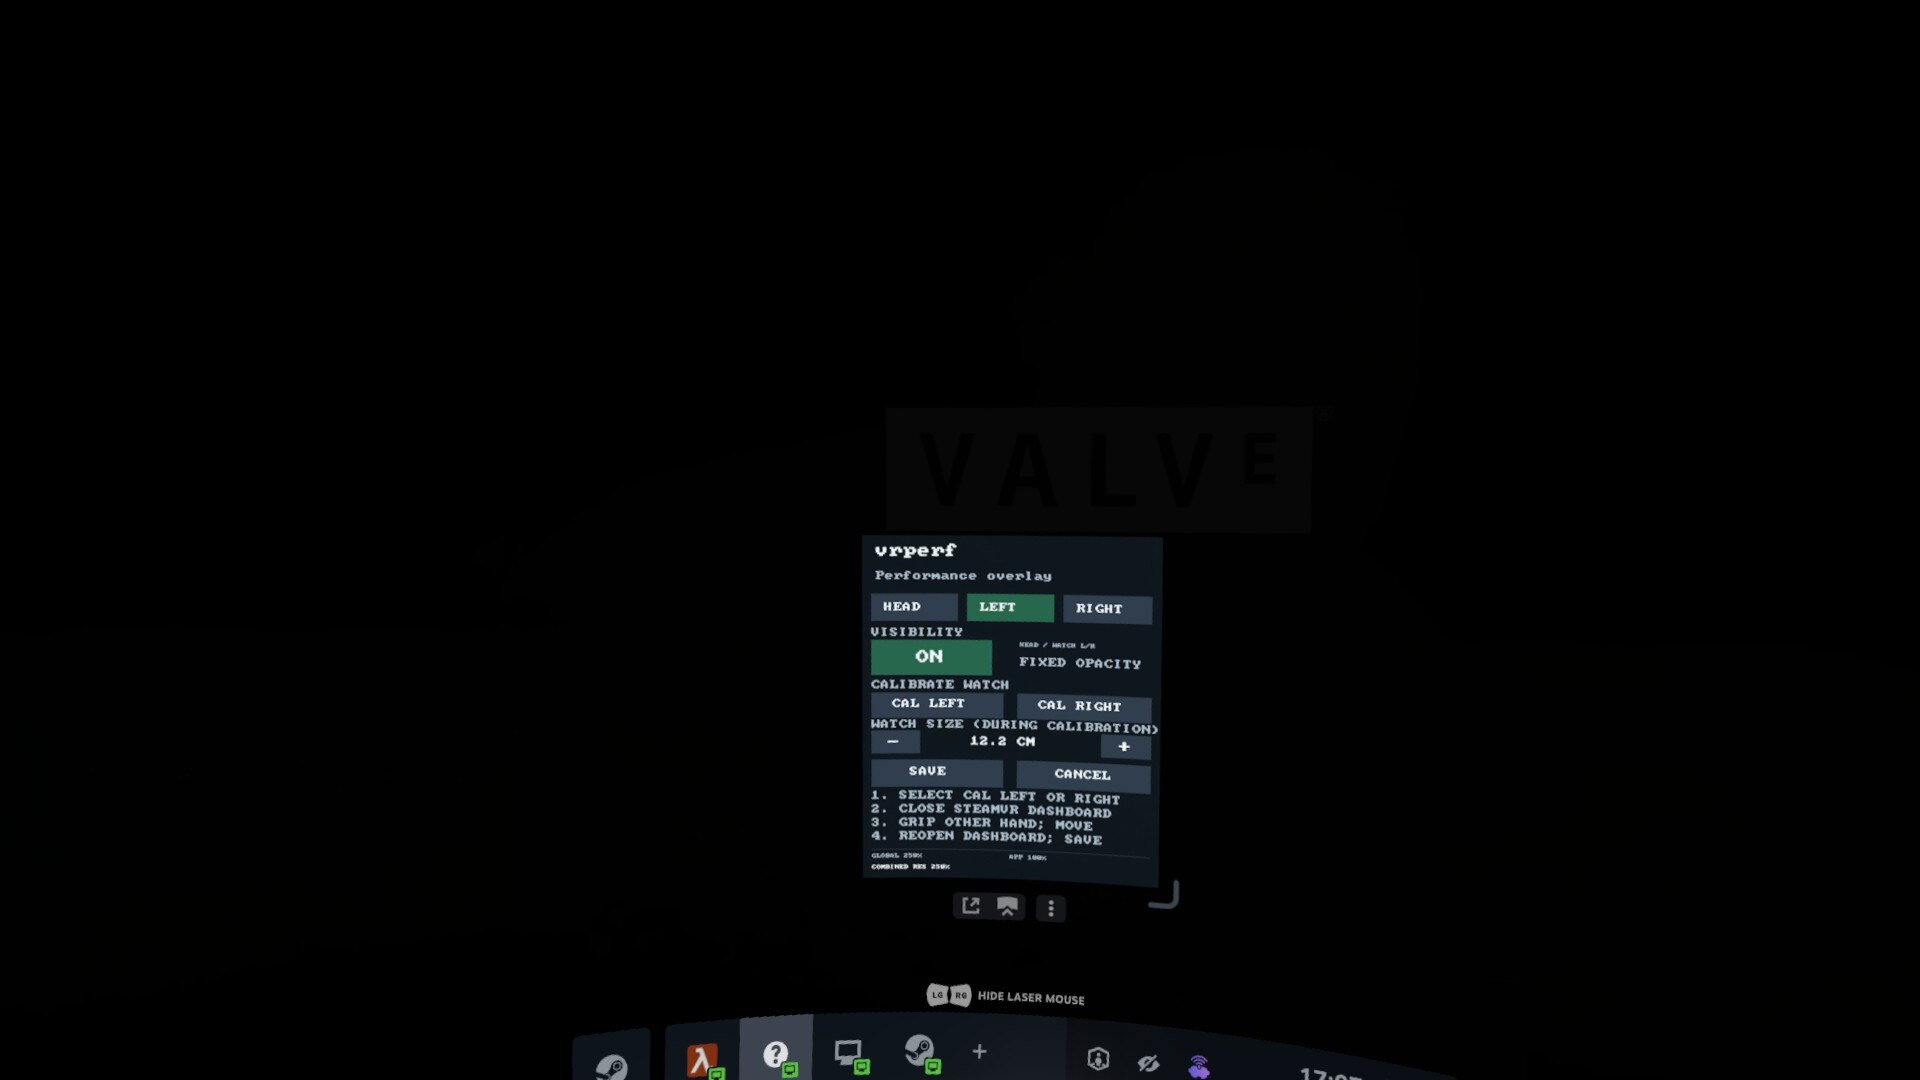
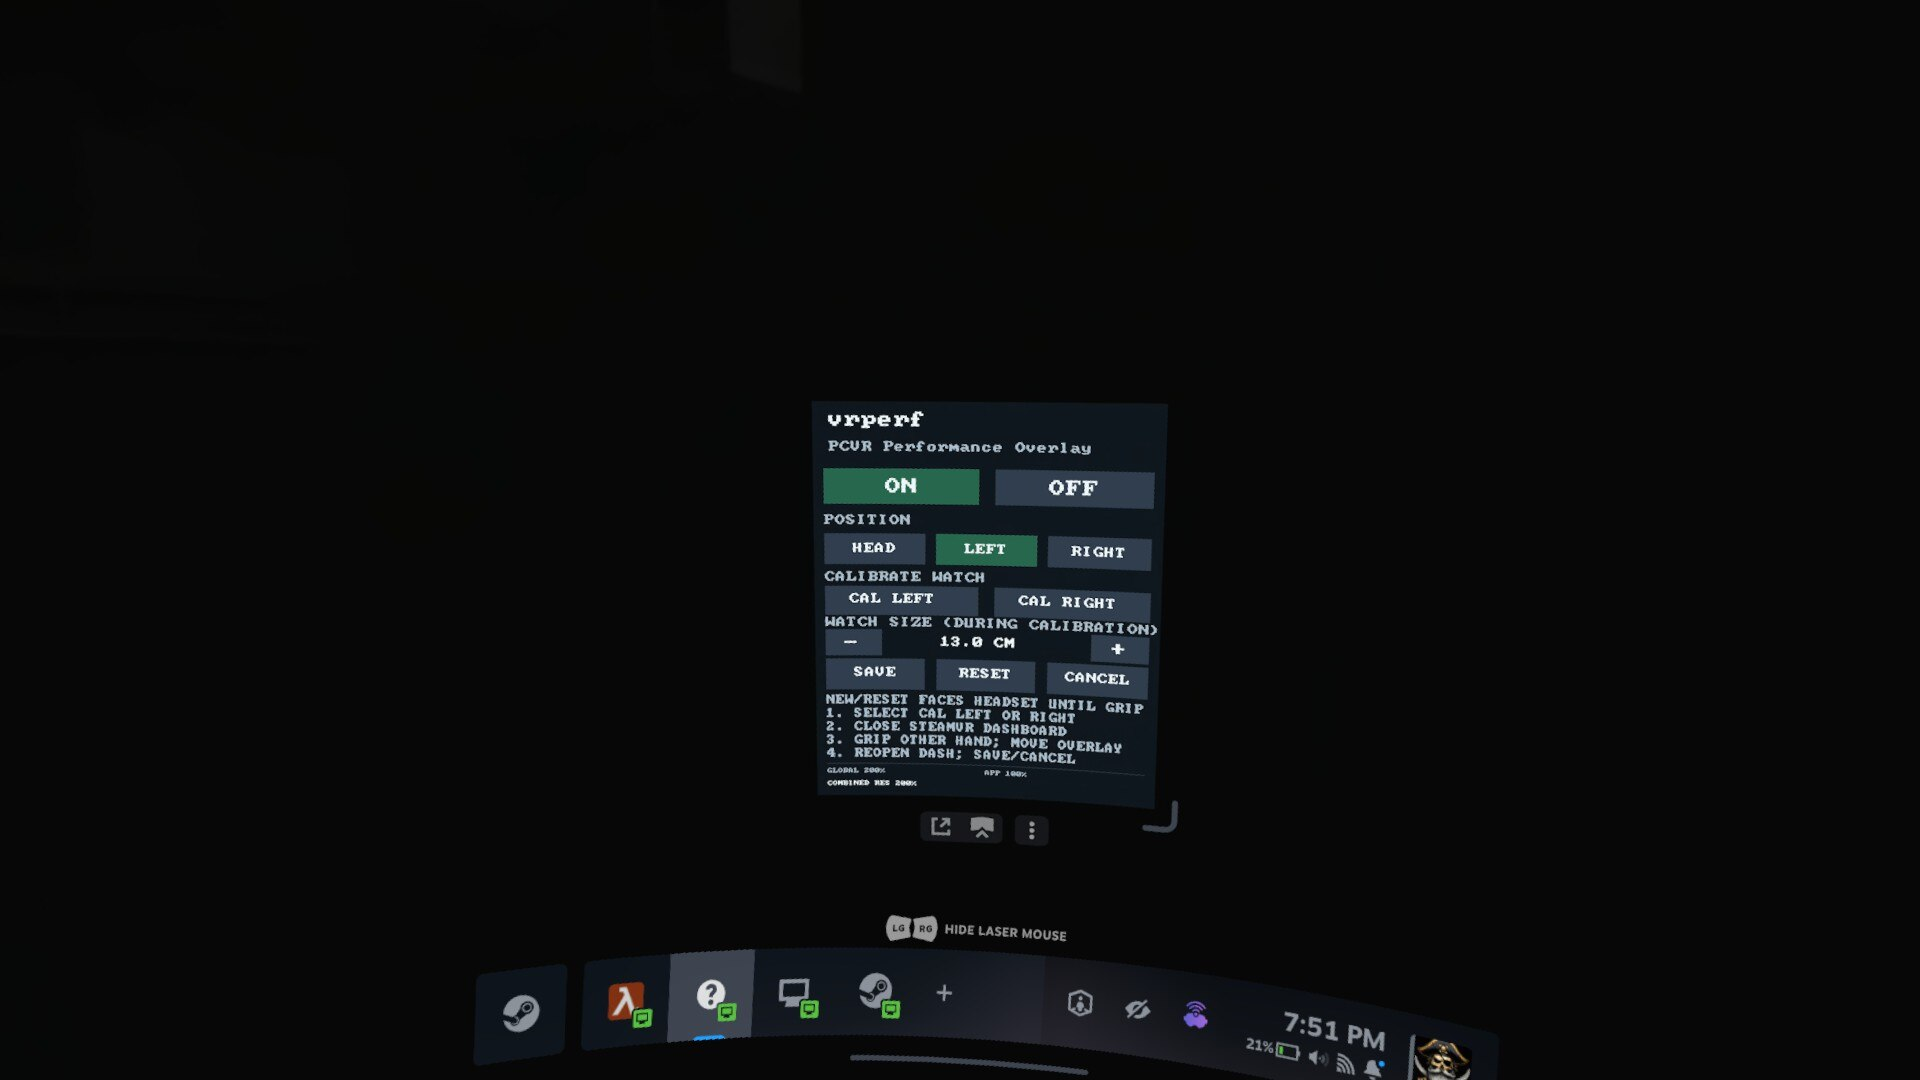
Updated pictures

Changed region(s): [[0.25, 0.3667, 0.7812, 1.0], [0.5938, 0.825, 0.625, 0.8556]]

diff --git a/README.md b/README.md
@@ -58,8 +58,6 @@ Keep SteamVR running for the install step, then fully restart it. For Ubuntu/Deb
 
 ![vrperf dashboard controls](screenshots/vrperf.on.off.jpg)
 
-*The dashboard screenshot shows an older layout. In current versions, ON and OFF are separate buttons near the top.*
-
 **HEAD** stays fixed in your view. A saved LEFT or RIGHT watch appears when you turn it towards your eyes and look at it. It hides when you look or turn away.
 
 **A new or reset watch faces the headset automatically** so you can find it. It stays above its controller and follows your view until you grab it to set a position. See [watch calibration and RESET](docs/calibration.md) for the full behaviour.
